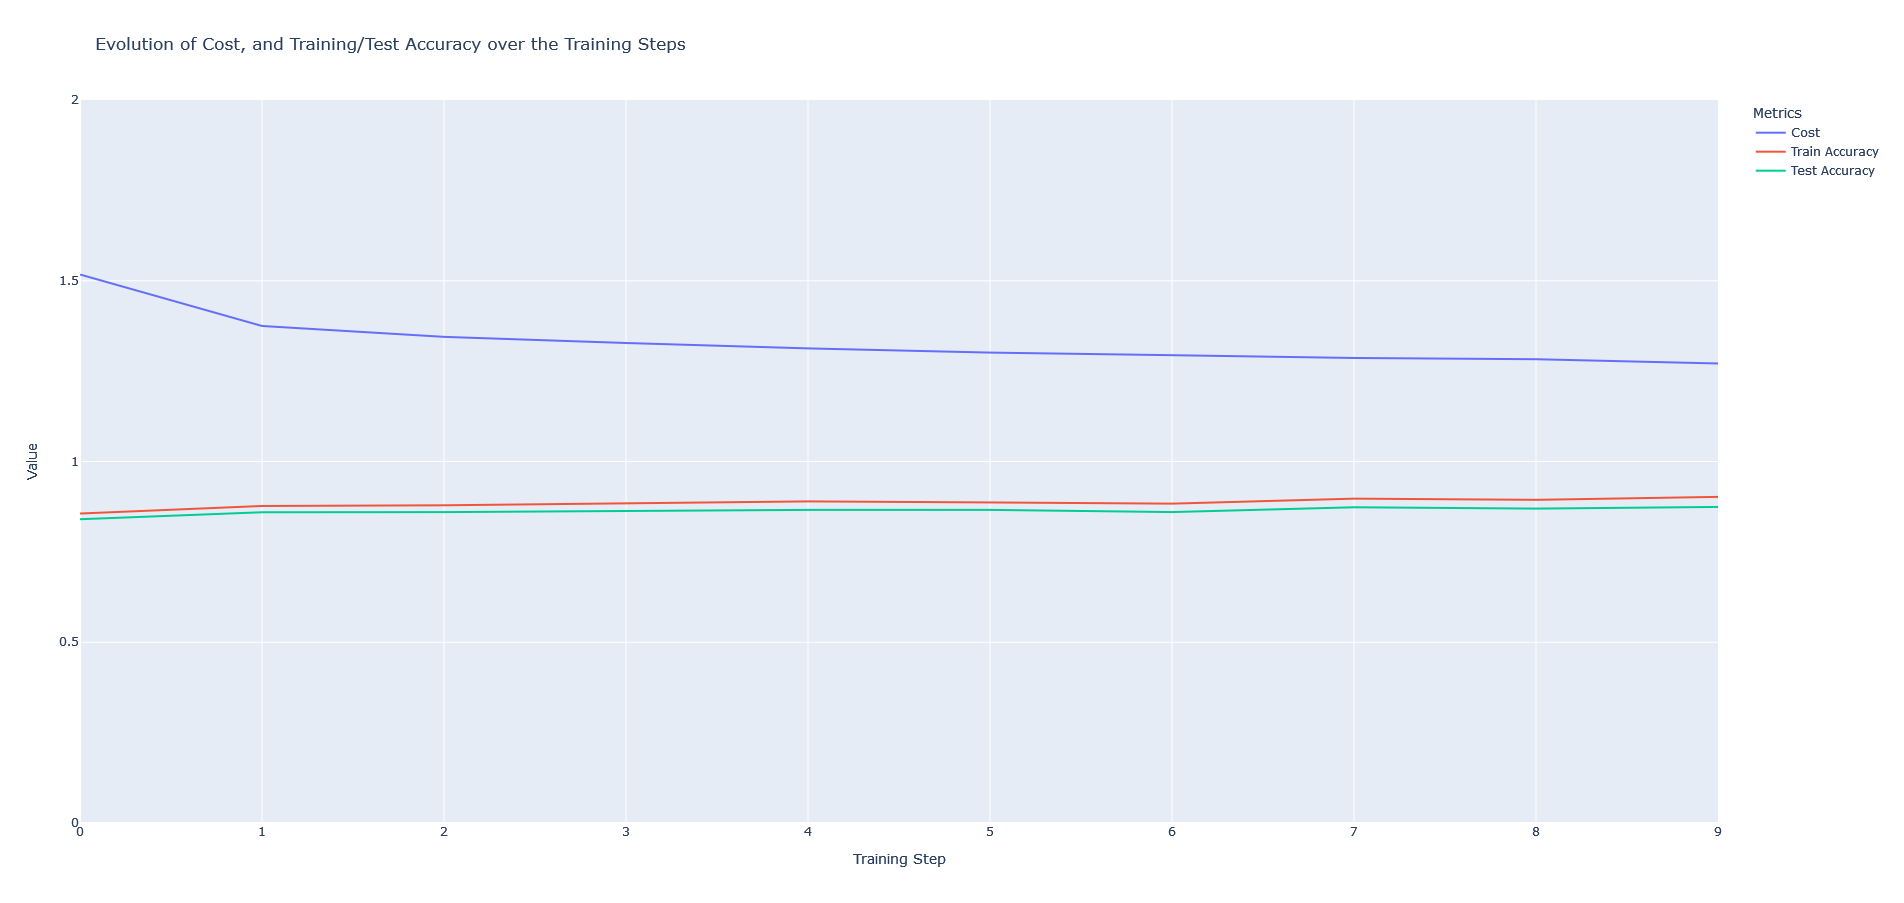
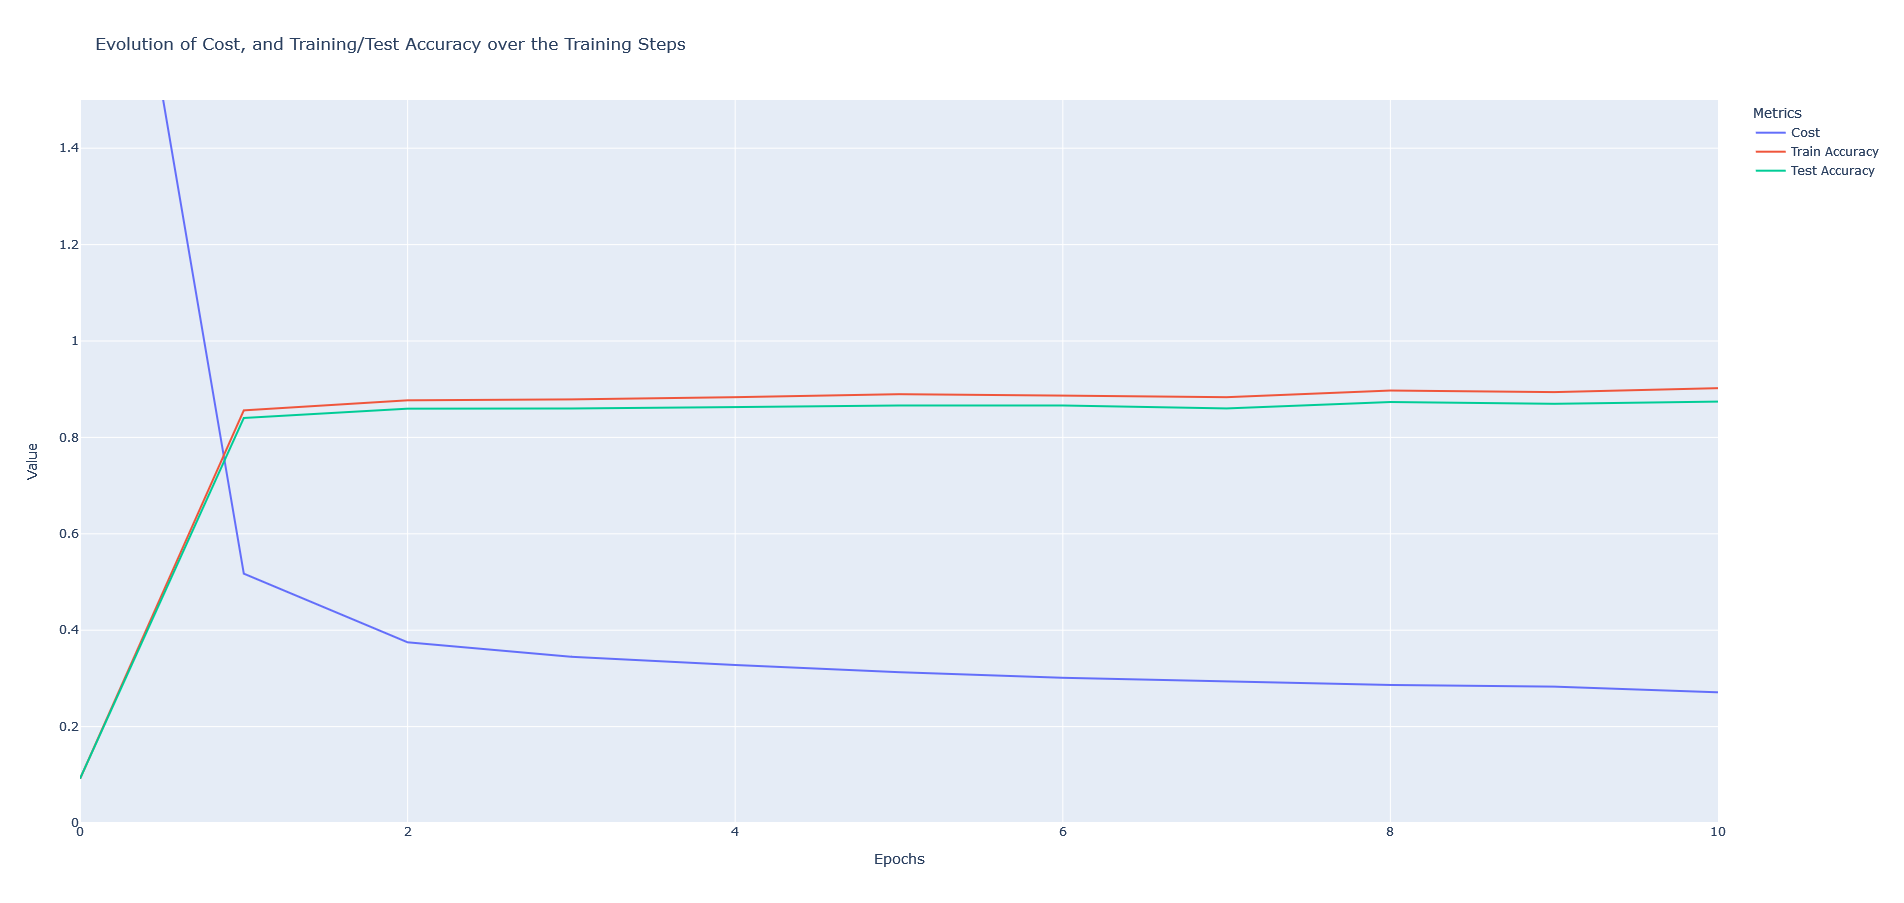
Added epoch 0

diff --git a/models.py b/models.py
@@ -248,6 +248,12 @@ class multi_classification:
         costs = list()
         train_accs=list()
         dev_accs=list()
+        
+        # Compute epoch "0" metrics
+        A_L, cache = self.propagate(X)
+        costs.append(softmax_cost(A_L,Y))
+        train_accs.append(self.compute_accuracy(X,Y))
+        dev_accs.append(self.compute_accuracy(X_test,Y_test))
         try:
             for epoch in range(1,epochs+1):
                 mini_batches = self.random_mini_batches(X, Y, batch_size)
@@ -263,7 +269,7 @@ class multi_classification:
                         v,s=self.update_parameters_adam(grads,v,s,t,learning_rate,beta1=0.9,beta2=0.999,epsilon=1e-8)
                     elif not optimizer:
                         self.update_parameters(grads,learning_rate)
-                cost_avg =cost_total/len(mini_batches)+1
+                cost_avg =cost_total/len(mini_batches)
                 train_acc = self.compute_accuracy(X,Y)
                 dev_acc=self.compute_accuracy(X_test, Y_test)
                 print(f"Epoch {epoch}: cost:{cost_avg}; train_acc:{train_acc}; dev_acc:{dev_acc}") #np.round(train_acc*100)

diff --git a/main.py b/main.py
@@ -32,7 +32,7 @@ def multi_class(path=False,print_image=False, print_metric=False):
     model=multi_classification()
     if not path:
         parameters, costs, train_accs, dev_accs = model.training(x_train,y_train, x_dev, y_dev, epochs=10, 
-                                                                 learning_rate=0.008, batch_size=128,optimizer="adam")
+                                                                 learning_rate=0.008, batch_size=128,optimizer=False)
     else:
         parameters, costs, train_accs, dev_accs = model.load_weights(path)
     print(f"The dev accuracy is {np.round(model.compute_accuracy(x_dev, y_dev)*100)}%")

diff --git a/display.py b/display.py
@@ -51,11 +51,11 @@ def display_metrics(costs= False, train_accs= False, test_accs= False):
     fig.update_layout(
         title="Evolution of Cost, and Training/Test Accuracy over the Training Steps",
         xaxis=dict(
-            title="Training Step"
+            title="Epochs"
         ),
         yaxis=dict(
             title="Value",
-            range=[0,2]
+            range=[0,1.5]
         ),
         legend_title="Metrics"
     )
